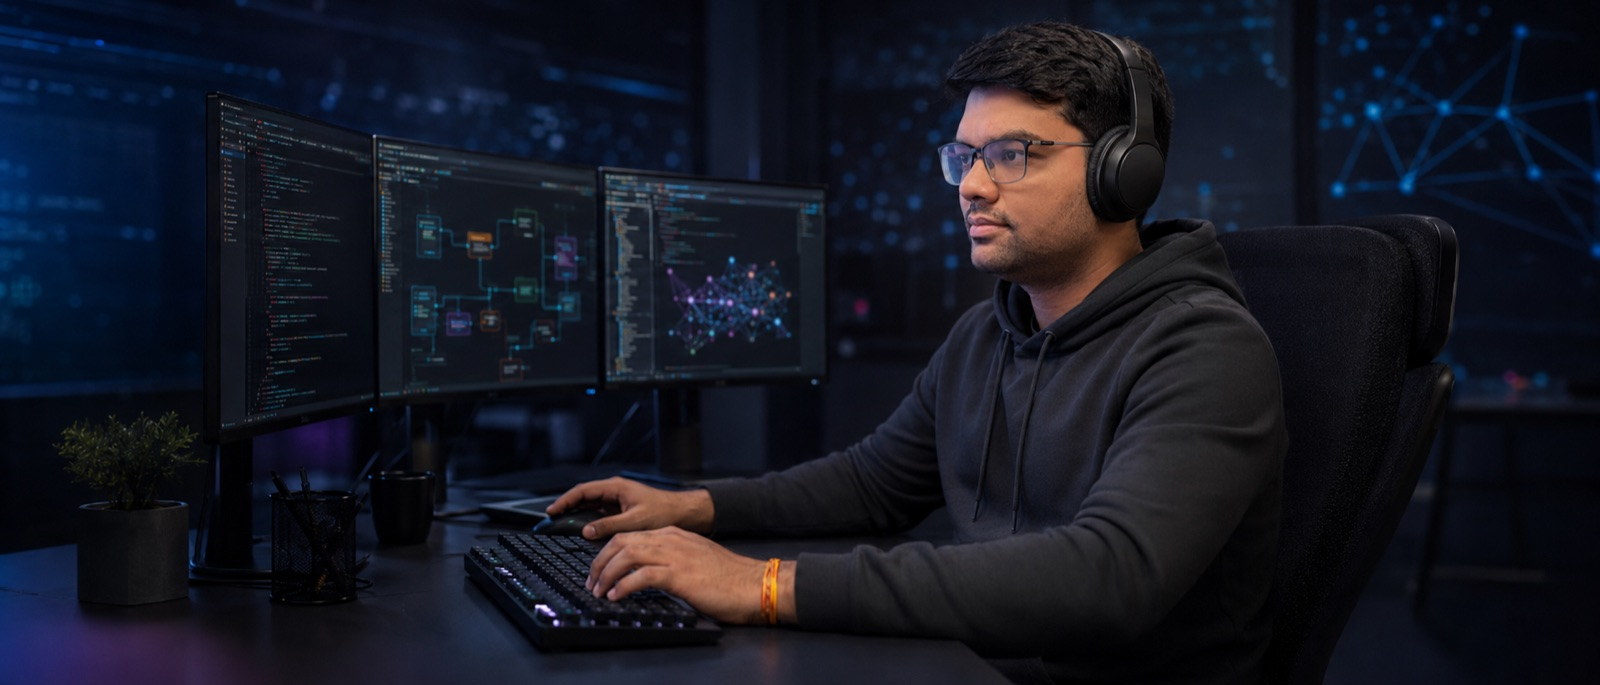
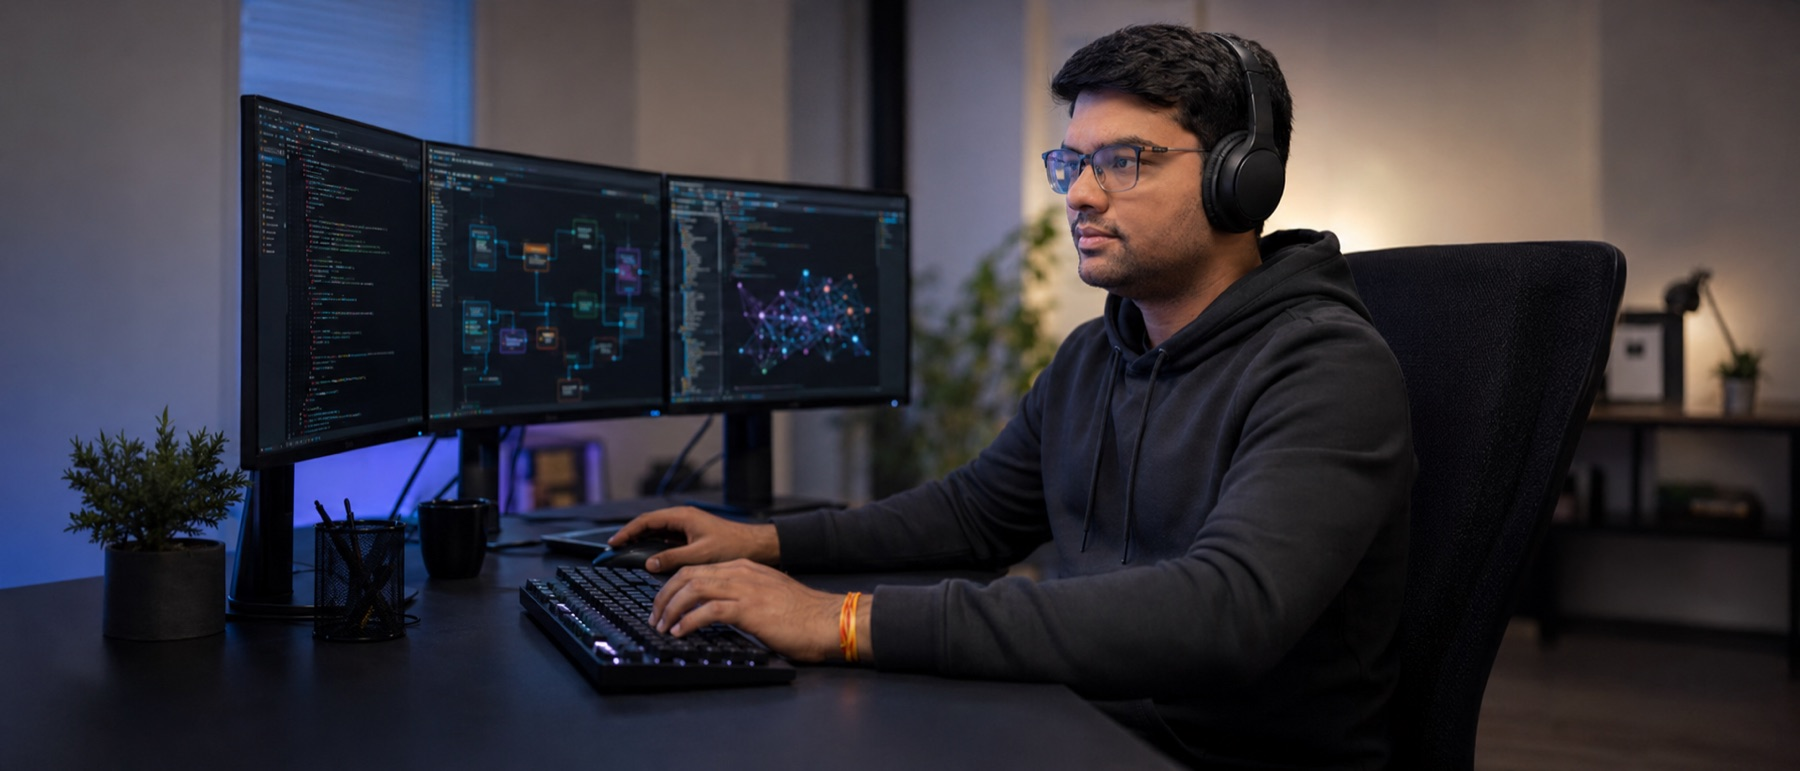
feat: water-ripple hero, new title photo, AI developer positioning
Replaces the hero with the new title photo rendered through a WebGL
water surface: a CPU height-field wave sim feeds a fragment shader
that refracts the photo along the ripple gradient, so moving the
cursor drags trails like fingers through water. Falls back to a
plain image without WebGL. Hero copy becomes "Hello, I am Gourang"
with an AI Systems Developer tagline, and the decorative circle
badge is gone.

Also repositions all copy from full stack to AI developer, rewrites
the CREAT description around Python, Go, cloud and agent work, and
strips automotive terminology from the Accenture entry.

diff --git a/frontend/src/components/WaterHero.tsx b/frontend/src/components/WaterHero.tsx
@@ -1,0 +1,223 @@
+import { useEffect, useRef } from "react";
+
+/* Interactive water surface over a photo. A CPU height-field wave sim
+   (classic two-buffer ripple) uploads to a texture each frame; the
+   fragment shader refracts the photo along the height gradient and adds
+   a specular glint, so the cursor drags ripples like fingers on water.
+   Falls back to a plain <img> when WebGL is unavailable. */
+
+const SIM_W = 320;
+
+const VERT = `
+attribute vec2 aPos;
+varying vec2 vUv;
+void main() {
+  vUv = aPos * 0.5 + 0.5;
+  gl_Position = vec4(aPos, 0.0, 1.0);
+}`;
+
+const FRAG = `
+precision mediump float;
+varying vec2 vUv;
+uniform sampler2D uImage;
+uniform sampler2D uHeight;
+uniform vec2 uTexel;
+uniform vec2 uCoverScale;
+uniform vec2 uCoverOffset;
+void main() {
+  float hl = texture2D(uHeight, vUv - vec2(uTexel.x, 0.0)).r;
+  float hr = texture2D(uHeight, vUv + vec2(uTexel.x, 0.0)).r;
+  float ht = texture2D(uHeight, vUv - vec2(0.0, uTexel.y)).r;
+  float hb = texture2D(uHeight, vUv + vec2(0.0, uTexel.y)).r;
+  vec2 grad = vec2(hr - hl, hb - ht);
+  vec2 uv = (vUv + grad * 0.6) * uCoverScale + uCoverOffset;
+  vec3 col = texture2D(uImage, uv).rgb;
+  col += (grad.x + grad.y) * 2.2;
+  gl_FragColor = vec4(col, 1.0);
+}`;
+
+export default function WaterHero({ src, className = "", imgStyle }: { src: string; className?: string; imgStyle?: React.CSSProperties }) {
+  const wrapRef = useRef<HTMLDivElement>(null);
+  const canvasRef = useRef<HTMLCanvasElement>(null);
+
+  useEffect(() => {
+    const wrap = wrapRef.current;
+    const canvas = canvasRef.current;
+    if (!wrap || !canvas) return;
+    const gl = canvas.getContext("webgl", { antialias: false });
+    if (!gl) return; // fallback <img> stays visible
+
+    let raf = 0;
+    let dead = false;
+
+    const compile = (type: number, srcCode: string) => {
+      const s = gl.createShader(type)!;
+      gl.shaderSource(s, srcCode);
+      gl.compileShader(s);
+      return s;
+    };
+    const prog = gl.createProgram()!;
+    gl.attachShader(prog, compile(gl.VERTEX_SHADER, VERT));
+    gl.attachShader(prog, compile(gl.FRAGMENT_SHADER, FRAG));
+    gl.linkProgram(prog);
+    gl.useProgram(prog);
+
+    const quad = gl.createBuffer();
+    gl.bindBuffer(gl.ARRAY_BUFFER, quad);
+    gl.bufferData(gl.ARRAY_BUFFER, new Float32Array([-1, -1, 1, -1, -1, 1, 1, 1]), gl.STATIC_DRAW);
+    const aPos = gl.getAttribLocation(prog, "aPos");
+    gl.enableVertexAttribArray(aPos);
+    gl.vertexAttribPointer(aPos, 2, gl.FLOAT, false, 0, 0);
+
+    const uImage = gl.getUniformLocation(prog, "uImage");
+    const uHeight = gl.getUniformLocation(prog, "uHeight");
+    const uTexel = gl.getUniformLocation(prog, "uTexel");
+    const uCoverScale = gl.getUniformLocation(prog, "uCoverScale");
+    const uCoverOffset = gl.getUniformLocation(prog, "uCoverOffset");
+
+    // sim grid sized after first layout
+    let simH = 180;
+    let prev = new Float32Array(SIM_W * simH);
+    let curr = new Float32Array(SIM_W * simH);
+    let pixels = new Uint8Array(SIM_W * simH);
+
+    const heightTex = gl.createTexture();
+    const setupHeightTex = () => {
+      gl.activeTexture(gl.TEXTURE1);
+      gl.bindTexture(gl.TEXTURE_2D, heightTex);
+      gl.pixelStorei(gl.UNPACK_ALIGNMENT, 1);
+      gl.texImage2D(gl.TEXTURE_2D, 0, gl.LUMINANCE, SIM_W, simH, 0, gl.LUMINANCE, gl.UNSIGNED_BYTE, null);
+      gl.texParameteri(gl.TEXTURE_2D, gl.TEXTURE_MIN_FILTER, gl.LINEAR);
+      gl.texParameteri(gl.TEXTURE_2D, gl.TEXTURE_MAG_FILTER, gl.LINEAR);
+      gl.texParameteri(gl.TEXTURE_2D, gl.TEXTURE_WRAP_S, gl.CLAMP_TO_EDGE);
+      gl.texParameteri(gl.TEXTURE_2D, gl.TEXTURE_WRAP_T, gl.CLAMP_TO_EDGE);
+    };
+
+    const imgTex = gl.createTexture();
+    const img = new Image();
+    let imgW = 1, imgH = 1, ready = false;
+    img.onload = () => {
+      if (dead) return;
+      imgW = img.naturalWidth; imgH = img.naturalHeight;
+      gl.activeTexture(gl.TEXTURE0);
+      gl.bindTexture(gl.TEXTURE_2D, imgTex);
+      gl.pixelStorei(gl.UNPACK_FLIP_Y_WEBGL, true);
+      gl.texImage2D(gl.TEXTURE_2D, 0, gl.RGB, gl.RGB, gl.UNSIGNED_BYTE, img);
+      gl.texParameteri(gl.TEXTURE_2D, gl.TEXTURE_MIN_FILTER, gl.LINEAR);
+      gl.texParameteri(gl.TEXTURE_2D, gl.TEXTURE_MAG_FILTER, gl.LINEAR);
+      gl.texParameteri(gl.TEXTURE_2D, gl.TEXTURE_WRAP_S, gl.CLAMP_TO_EDGE);
+      gl.texParameteri(gl.TEXTURE_2D, gl.TEXTURE_WRAP_T, gl.CLAMP_TO_EDGE);
+      ready = true;
+      resize();
+    };
+    img.src = src;
+
+    const resize = () => {
+      const r = wrap.getBoundingClientRect();
+      canvas.width = Math.round(r.width);
+      canvas.height = Math.round(r.height);
+      gl.viewport(0, 0, canvas.width, canvas.height);
+      simH = Math.max(90, Math.round((SIM_W * r.height) / r.width));
+      prev = new Float32Array(SIM_W * simH);
+      curr = new Float32Array(SIM_W * simH);
+      pixels = new Uint8Array(SIM_W * simH);
+      setupHeightTex();
+      if (!ready) return;
+      // object-fit: cover mapping
+      const canvasAspect = canvas.width / canvas.height;
+      const imgAspect = imgW / imgH;
+      let sx = 1, sy = 1;
+      if (imgAspect > canvasAspect) sx = canvasAspect / imgAspect;
+      else sy = imgAspect / canvasAspect;
+      gl.uniform2f(uCoverScale, sx, sy);
+      gl.uniform2f(uCoverOffset, (1 - sx) / 2, (1 - sy) / 2);
+      gl.uniform2f(uTexel, 1 / SIM_W, 1 / simH);
+    };
+    resize();
+    window.addEventListener("resize", resize);
+
+    const splash = (nx: number, ny: number, strength: number) => {
+      const cx = Math.round(nx * SIM_W);
+      const cy = Math.round((1 - ny) * simH);
+      for (let dy = -2; dy <= 2; dy++) {
+        for (let dx = -2; dx <= 2; dx++) {
+          const x = cx + dx, y = cy + dy;
+          if (x < 1 || x >= SIM_W - 1 || y < 1 || y >= simH - 1) continue;
+          const d = Math.hypot(dx, dy);
+          if (d <= 2.4) curr[y * SIM_W + x] += strength * (1 - d / 2.6);
+        }
+      }
+    };
+
+    let lastX = -1, lastY = -1;
+    const onMove = (e: MouseEvent) => {
+      const r = wrap.getBoundingClientRect();
+      const nx = (e.clientX - r.left) / r.width;
+      const ny = (e.clientY - r.top) / r.height;
+      if (nx < 0 || nx > 1 || ny < 0 || ny > 1) return;
+      // interpolate along fast mouse moves so the trail is continuous
+      if (lastX >= 0) {
+        const steps = Math.max(1, Math.ceil(Math.hypot(nx - lastX, ny - lastY) * 40));
+        for (let i = 1; i <= steps; i++) {
+          splash(lastX + ((nx - lastX) * i) / steps, lastY + ((ny - lastY) * i) / steps, 0.9);
+        }
+      } else {
+        splash(nx, ny, 1.4);
+      }
+      lastX = nx; lastY = ny;
+    };
+    const onLeave = () => { lastX = -1; lastY = -1; };
+    wrap.addEventListener("mousemove", onMove);
+    wrap.addEventListener("mouseleave", onLeave);
+
+    let frame = 0;
+    const tick = () => {
+      if (dead) return;
+      raf = requestAnimationFrame(tick);
+      frame++;
+      // occasional ambient raindrop keeps the surface alive
+      if (frame % 160 === 0) splash(Math.random(), Math.random(), 1.2);
+
+      for (let y = 1; y < simH - 1; y++) {
+        const row = y * SIM_W;
+        for (let x = 1; x < SIM_W - 1; x++) {
+          const i = row + x;
+          prev[i] = ((curr[i - 1] + curr[i + 1] + curr[i - SIM_W] + curr[i + SIM_W]) / 2 - prev[i]) * 0.985;
+        }
+      }
+      const tmp = prev; prev = curr; curr = tmp;
+
+      for (let i = 0; i < curr.length; i++) {
+        let v = curr[i] * 0.5 + 0.5;
+        if (v < 0) v = 0; else if (v > 1) v = 1;
+        pixels[i] = (v * 255) | 0;
+      }
+      gl.activeTexture(gl.TEXTURE1);
+      gl.bindTexture(gl.TEXTURE_2D, heightTex);
+      gl.texSubImage2D(gl.TEXTURE_2D, 0, 0, 0, SIM_W, simH, gl.LUMINANCE, gl.UNSIGNED_BYTE, pixels);
+
+      if (ready) {
+        gl.uniform1i(uImage, 0);
+        gl.uniform1i(uHeight, 1);
+        gl.drawArrays(gl.TRIANGLE_STRIP, 0, 4);
+      }
+    };
+    tick();
+
+    return () => {
+      dead = true;
+      cancelAnimationFrame(raf);
+      window.removeEventListener("resize", resize);
+      wrap.removeEventListener("mousemove", onMove);
+      wrap.removeEventListener("mouseleave", onLeave);
+      gl.getExtension("WEBGL_lose_context")?.loseContext();
+    };
+  }, [src]);
+
+  return (
+    <div ref={wrapRef} className={`absolute inset-0 ${className}`}>
+      <img src={src} alt="Gourangkumar Monashara" className="absolute inset-0 w-full h-full object-cover" style={imgStyle} />
+      <canvas ref={canvasRef} className="absolute inset-0 w-full h-full" />
+    </div>
+  );
+}

diff --git a/frontend/src/data/portfolio.ts b/frontend/src/data/portfolio.ts
@@ -1,7 +1,7 @@
 export const SKILLS = [
   {
     num: "01",
-    title: "Full-Stack Development",
+    title: "Software Development",
     blurb: "Python and Go on the backend, TypeScript and React up front, wired together with REST APIs and microservices that hold up under real traffic.",
     tags: ["Python", "Go", "TypeScript", "React", "FastAPI", "REST APIs", "Microservices"],
   },
@@ -31,7 +31,7 @@ export const PROJECTS = [
     icon: "RAG",
     tags: ["Google Vertex AI", "FastAPI", "Streamlit", "LangChain"],
     title: "Enterprise RAG Assistant on Vertex AI",
-    desc: "A full stack RAG app I built for BMW Group. Vertex AI handles retrieval, FastAPI runs the backend, and Streamlit and React share the front end. I spent real time tuning prompts so answers stay accurate instead of confidently wrong.",
+    desc: "An end to end RAG app I built for BMW Group. Vertex AI handles retrieval, FastAPI runs the backend, and Streamlit and React share the front end. I spent real time tuning prompts so answers stay accurate instead of confidently wrong.",
     link: "#",
     linkLabel: "Case Study",
     accent: "#7c8cf0",
@@ -79,7 +79,7 @@ export const EXPERIENCE = [
     accent: "#7c8cf0",
     status: "active",
     description:
-      "Full stack work on sustainability focused cloud systems. I ship microservices, build validation environments and keep an eye on the observability that tells us when something is actually wrong.",
+      "AI and cloud work on sustainability focused systems. I ship microservices, build validation environments and keep an eye on the observability that tells us when something is actually wrong.",
     achievements: [
       "Built and deployed Docker based microservices, fixing system wide issues around data consistency, latency and service communication.",
       "Set up cloud based validation environments with REST APIs and internal data pipelines for large scale sustainability testing.",
@@ -101,7 +101,7 @@ export const EXPERIENCE = [
     accent: "#f2b544",
     status: "past",
     description:
-      "Backend systems and ML backed services, built and run on Kubernetes for workloads that needed to behave like production even when they were not quite there yet.",
+      "AI agent and cloud software development in Python and Go. Built backend services and agent based automation on Kubernetes for data heavy workloads that needed to behave like production.",
     achievements: [
       "Built data driven backend systems and ML backed services in Python and Go, wiring structured datasets into scalable apps.",
       "Built and ran containerized microservices with Docker and Kubernetes for distributed data processing.",
@@ -121,14 +121,14 @@ export const EXPERIENCE = [
     accent: "#8b93f0",
     status: "past",
     description:
-      "Safety critical ADAS validation work. Building the test systems that prove autonomous features actually hold up under pressure.",
+      "Safety critical software validation. Building the test systems that prove complex features actually hold up under pressure.",
     achievements: [
-      "Developed and validated ADAS functionality including Emergency Assist systems, focused on safety critical scenarios under ISO 26262.",
-      "Built a real world test system to check behavior against safety critical automotive requirements.",
+      "Developed and validated safety critical software functions, focused on high risk scenarios and strict quality standards.",
+      "Built a real world test system to check behavior against safety critical requirements.",
       "Designed scenario based test and validation workflows for edge cases and fault conditions.",
       "Integrated solutions into DevOps and MLOps pipelines on Linux infrastructure, working across test, deployment and monitoring.",
     ],
-    stack: ["ADAS", "ISO 26262", "Python", "Linux", "DevOps", "MLOps", "Test Automation"],
+    stack: ["Python", "Linux", "DevOps", "MLOps", "Test Automation", "CI/CD"],
   },
 ];
 

diff --git a/frontend/src/pages/Home.tsx b/frontend/src/pages/Home.tsx
@@ -1,6 +1,7 @@
 import { Link } from "react-router-dom";
 import { Block, Eyebrow } from "@/components/PortfolioBlocks";
 import Tilt3D from "@/components/Tilt3D";
+import WaterHero from "@/components/WaterHero";
 import hero from "@/assets/photos/hero.jpg";
 
 const SECTIONS = [
@@ -14,20 +15,17 @@ const SECTIONS = [
 function HeroSection() {
   return (
     <div className="relative h-[92vh] min-h-[640px] overflow-hidden">
-      <img src={hero} alt="Gourangkumar Monashara" className="absolute inset-0 w-full h-full object-cover" style={{ objectPosition: "60% 30%" }} />
-      <div className="absolute inset-0 bg-gradient-to-t from-black/80 via-black/10 to-black/40" />
+      <WaterHero src={hero} imgStyle={{ objectPosition: "60% 30%" }} />
+      <div className="absolute inset-0 bg-gradient-to-t from-black/80 via-transparent to-black/30 pointer-events-none" />
 
-      <div className="animate-fade-up absolute top-28 md:top-32 left-6 md:left-10 max-w-xs text-white text-sm font-medium leading-relaxed">
-        Building Cloud Systems<br />that Speak the Language<br />of Real Traffic
+      <div className="animate-fade-up absolute top-28 md:top-32 left-6 md:left-10 max-w-sm text-white text-sm font-medium leading-relaxed pointer-events-none">
+        AI Systems Developer building agents,<br />cloud services and the automation<br />that keeps them honest
       </div>
 
-      <div className="absolute top-28 md:top-32 right-6 md:right-10 w-14 h-14 rounded-full border border-white/60 flex items-center justify-center text-white text-xs">
-        &reg;
-      </div>
-
-      <div className="animate-fade-up absolute bottom-0 left-0 right-0 px-4 md:px-8 pb-2 md:pb-4" style={{ animationDelay: "0.15s" }}>
+      <div className="animate-fade-up absolute bottom-0 left-0 right-0 px-4 md:px-8 pb-2 md:pb-4 pointer-events-none" style={{ animationDelay: "0.15s" }}>
+        <p className="text-white/80 font-semibold text-lg md:text-2xl mb-1 md:mb-2">Hello, I am</p>
         <h1 className="font-extrabold text-white leading-[0.8] tracking-tight text-[clamp(3.5rem,15vw,11rem)] whitespace-nowrap">
-          gourang
+          Gourang
         </h1>
       </div>
     </div>

diff --git a/frontend/index.html b/frontend/index.html
@@ -3,14 +3,14 @@
   <head>
     <meta charset="UTF-8" />
     <meta name="viewport" content="width=device-width, initial-scale=1.0" />
-    <title>Gourangkumar Monashara — Full-Stack & Cloud Systems Engineer</title>
-    <meta name="description" content="Portfolio of Gourangkumar Monashara, Full-Stack Software Developer specializing in cloud systems, DevOps automation, and agentic AI. Currently at BMW Group, Munich." />
+    <title>Gourangkumar Monashara — AI Developer</title>
+    <meta name="description" content="Portfolio of Gourangkumar Monashara, AI Developer specializing in AI agents, cloud systems and DevOps automation. Currently at BMW Group, Munich." />
     <meta name="author" content="Gourangkumar Monashara" />
-    <meta name="keywords" content="Full-Stack Developer, Cloud Engineer, Python, Go, TypeScript, Kubernetes, DevOps, MLOps, Agentic AI, LangChain" />
+    <meta name="keywords" content="AI Developer, Cloud Engineer, Python, Go, TypeScript, Kubernetes, DevOps, MLOps, Agentic AI, LangChain" />
     <link rel="icon" href="/gm-logo.png" type="image/png">
 
-    <meta property="og:title" content="Gourangkumar Monashara — Full-Stack & Cloud Systems Engineer" />
-    <meta property="og:description" content="Portfolio showcasing full-stack cloud engineering, DevOps automation, and agentic AI projects — from BMW Group to CREAT GmbH." />
+    <meta property="og:title" content="Gourangkumar Monashara — AI Developer" />
+    <meta property="og:description" content="Portfolio showcasing AI agents, cloud engineering and DevOps automation — from BMW Group to CREAT GmbH." />
     <meta property="og:type" content="website" />
     <meta property="og:image" content="https://lovable.dev/opengraph-image-p98pqg.png" />
 

diff --git a/frontend/src/pages/About.tsx b/frontend/src/pages/About.tsx
@@ -23,7 +23,7 @@ export default function About() {
           </Tilt3D>
           <div>
             <p className="text-lg leading-relaxed mb-6 text-[#111111]/80">
-              Three plus years as a full stack developer, building cloud infrastructure that stays stable even when nobody is watching. My stack covers the whole picture, TypeScript and Angular on the front end, Python and Go on the back, microservices and REST APIs tying it all together.
+              Three plus years as an AI developer, building agents and cloud infrastructure that stay stable even when nobody is watching. My stack covers the whole picture, TypeScript and Angular on the front end, Python and Go on the back, microservices and REST APIs tying it all together.
             </p>
             <p className="text-lg leading-relaxed mb-10 text-[#111111]/80">
               Right now I am a Software Developer at BMW Group in Munich, building diagnostic tools, CI/CD automation and observability for sustainable cloud infrastructure, while finishing a Master's in Artificial Intelligence at Technische Hochschule Ingolstadt.

diff --git a/frontend/src/pages/Contact.tsx b/frontend/src/pages/Contact.tsx
@@ -43,7 +43,7 @@ export default function Contact() {
             Get In<br />Touch
           </h2>
           <p className="text-lg text-white/70 max-w-md">
-            Open to Full Stack and Cloud Engineering roles in Germany. Happy to relocate for the right one.
+            Open to AI and Cloud Engineering roles in Germany. Happy to relocate for the right one.
           </p>
         </div>
       </div>
